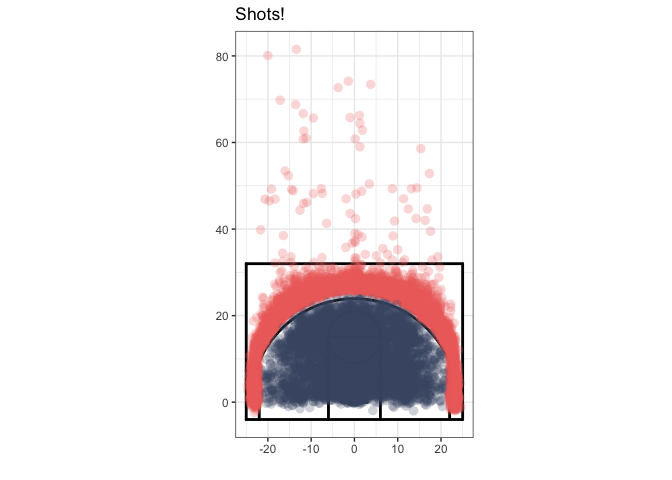
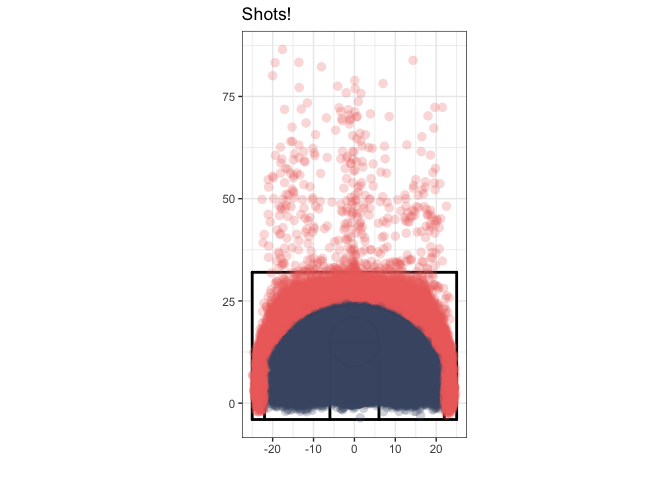
shot quality in R done

diff --git a/shot-quality/how_to_make_shot_quality_model.md b/shot-quality/how_to_make_shot_quality_model.md
@@ -22,8 +22,8 @@ and name ours **EMBIID**, or **E**xtremely **M**ediocre to **B**ad
 **I**ntroductory scor**I**ng mo**D**el.
 
 We’re going to be using exclusively shot data derived from play-by-play
-data - no tracking or demographic info here. The shots are 20,000 random
-fieldgoal attempts from the 2018 and 2019 regular seasons.
+data - no tracking or demographic info here. The shots are 100,000
+random fieldgoal attempts from the 2018 and 2019 regular seasons.
 
 ## Get the Data Set Up
 
@@ -39,7 +39,7 @@ library(tidyverse)
 
 ## Read in the data
 shots <- read_csv("data/shots.csv")
-set.seed(42)
+set.seed(111)
 
 ## Yep, looks like shot data
 print(head(shots))
@@ -48,12 +48,12 @@ print(head(shots))
     ## # A tibble: 6 x 18
     ##   event_team home_team away_team game_date           event_type quarter_time
     ##   <chr>      <chr>     <chr>     <dttm>              <chr>      <time>      
-    ## 1 Charlotte… Brooklyn… Charlott… 2019-11-21 00:30:00 twopointm… 08:10       
-    ## 2 Memphis G… Memphis … Denver N… 2020-01-29 01:00:00 twopointm… 04:23       
-    ## 3 Detroit P… Detroit … Milwauke… 2020-02-21 00:00:00 threepoin… 09:51       
-    ## 4 New Orlea… Golden S… New Orle… 2019-12-21 03:30:00 twopointm… 03:51       
-    ## 5 Boston Ce… Boston C… Orlando … 2019-04-07 23:30:00 twopointm… 02:41       
-    ## 6 Houston R… Houston … New Orle… 2019-01-30 01:00:00 threepoin… 10:05       
+    ## 1 Detroit P… Detroit … Charlott… 2018-11-11 20:30:00 twopointm… 10:04       
+    ## 2 Boston Ce… Boston C… Toronto … 2018-11-17 00:00:00 threepoin… 10:11       
+    ## 3 Denver Nu… Denver N… Minnesot… 2020-02-23 23:00:00 twopointm… 06:13       
+    ## 4 Phoenix S… Phoenix … Oklahoma… 2018-11-18 02:00:00 threepoin… 09:08       
+    ## 5 Los Angel… Clevelan… Los Ange… 2020-02-10 00:30:00 twopointm… 03:09       
+    ## 6 Boston Ce… New York… Boston C… 2019-02-02 00:30:00 threepoin… 06:18       
     ## # … with 12 more variables: quarter <dbl>, event_description <chr>,
     ## #   player_name <chr>, shot_style <chr>, shot_made <dbl>, points <dbl>,
     ## #   season <dbl>, seconds_elapsed <dbl>, shot_type <chr>, x <dbl>, y <dbl>,
@@ -85,14 +85,14 @@ ggplot() +
 Well, that certainly looks correct or close enough. However, there are
 quite a few heaves that we probably want to take out of the model since
 we probably(?) don’t care about those. Let’s limit it to shots 32 feet
-and closer (the top line of the little court). We only lose about 120
+and closer (the top line of the little court). We only lose about 600
 shots by doing this, so shouldn’t be an issue.
 
 ``` r
 print(nrow(shots))
 ```
 
-    ## [1] 20000
+    ## [1] 100000
 
 ``` r
 shots <- shots %>% 
@@ -101,7 +101,7 @@ shots <- shots %>%
 print(nrow(shots))
 ```
 
-    ## [1] 19881
+    ## [1] 99391
 
 ## Pre-Modeling Interlude
 
@@ -117,20 +117,20 @@ The good news about a PPS model is that there is an extremely obvious
 first pass model to either test or at least consider. Very slight math
 warning approaching.
 
-\[
-xPPS = {\beta_0} + {\beta_1}*FG2 + {\beta_2} * FG3   
-\] This is our starting point. This model takes binary flags for FG2 and
+![](how_to_make_shot_quality_model_files/eq1.gif)<!-- -->
+
+This is our starting point. This model takes binary flags for FG2 and
 FG3 and then returns an expected point per shot value (xPPS). Although,
 let’s consider if we actually need an intercept here - what would the
 xPPS be if FG2 = 0 and FG3 = 0? It would be zero, so we can actually get
-rid of the intercept entirely. EMBIID v1.0 is presented below.
+rid of the intercept entirely. You could over course also remove one of
+FG2 or FG3 as well and keep the intercept, but I like it this way for
+presentation purposes. EMBIID v1.0 is presented below.
 
-\[
-xPPS = {\beta_1}*FG2 + {\beta_2} * FG3   
-\]
+![](how_to_make_shot_quality_model_files/eq2.gif)<!-- -->
 
-Now, let’s use this model setup to train on 15,000 random shots and
-train on 5,000 random shots and see how we do. Fun fact, I learned about
+Now, let’s use this model setup to train on 75% of the data and test on
+25% of the data and see how we do. Fun fact, I learned about
 `tidymodels::initial_split()` while writing this\!
 
 ``` r
@@ -156,21 +156,21 @@ summary(model)
     ## 
     ## Residuals:
     ##     Min      1Q  Median      3Q     Max 
-    ## -1.1275 -1.1042 -1.1042  0.8958  1.8725 
+    ## -1.1012 -1.1012 -1.0839  0.8988  1.9161 
     ## 
     ## Coefficients:
     ##     Estimate Std. Error t value Pr(>|t|)    
-    ## fg2  1.10421    0.01235   89.41   <2e-16 ***
-    ## fg3  1.12746    0.01583   71.22   <2e-16 ***
+    ## fg2 1.101186   0.005510   199.9   <2e-16 ***
+    ## fg3 1.083863   0.007037   154.0   <2e-16 ***
     ## ---
     ## Signif. codes:  0 '***' 0.001 '**' 0.01 '*' 0.05 '.' 0.1 ' ' 1
     ## 
-    ## Residual standard error: 1.189 on 14909 degrees of freedom
-    ## Multiple R-squared:  0.4671, Adjusted R-squared:  0.467 
-    ## F-statistic:  6533 on 2 and 14909 DF,  p-value: < 2.2e-16
+    ## Residual standard error: 1.184 on 74542 degrees of freedom
+    ## Multiple R-squared:  0.4607, Adjusted R-squared:  0.4606 
+    ## F-statistic: 3.183e+04 on 2 and 74542 DF,  p-value: < 2.2e-16
 
-Good news - our model makes sense. In general, FG3 are slightly more
-efficient from a PPS standpoint than FG2. Now before you go ahead and
+Good news - our model makes sense. Our FG2 and FG3 coefficients are nice
+here because they’re just points per shot\! Now before you go ahead and
 start yelling about how the game has changed, keep in mind that there is
 **zero** contextualizing information here - just the most basic league
 wide efficiency model. Now let’s test.
@@ -206,7 +206,7 @@ ggplot(data = twos) +
   geom_violin(aes(x = pps_actual, y = pps_pred), fill = "darkgray") +
   geom_jitter(aes(x = pps_actual, y = pps_pred, color = resid_per_shot, size = number_of_shots), 
              shape = 16, alpha = 0.75, height = 0.1) +
-  scale_y_continuous(breaks = c(1.11)) +
+  scale_y_continuous(breaks = c(1.102)) +
   scale_color_gradient2(low = "blue",
                         mid = "white",
                         midpoint = 0,
@@ -221,7 +221,7 @@ ggplot(data = twos) +
   theme_bw(base_size = 16)
 ```
 
-![](how_to_make_shot_quality_model_files/figure-gfm/unnamed-chunk-4-1.png)<!-- -->
+![](how_to_make_shot_quality_model_files/figure-gfm/unnamed-chunk-6-1.png)<!-- -->
 
 ``` r
 two_error <- mltools::rmse(preds = twos$pps_pred, 
@@ -233,39 +233,38 @@ three_error <- mltools::rmse(preds = threes$pps_pred,
                            weights = threes$number_of_shots)
 ```
 
-Well our attempted weighted RMSE for twos is 0.42 and 0.67 for threes.
-Not particularly great\! But, that’s to be expected as we’re treating
-every single FG2 the same and every FG3 the same. Let’s add some spatial
-information in and see if we do better.
+Well our attempted weighted RMSE for twos is 0.223 and 0.363 for threes.
+Not particularly great, but RMSE might also not be the best way to
+evaluate this model (not going to be covered here, but this is something
+to consider)\! But, that’s to be expected as we’re treating every single
+FG2 the same and every FG3 the same. Let’s add some spatial information
+in and see if we do better.
 
 ``` r
-model <- lm(points ~  fg2 + fg3 + x + y + shot_distance + 0, data = train_shots)
+model <- lm(points ~ fg2 + fg3 + shot_distance + 0, data = train_shots)
 
 summary(model)
 ```
 
     ## 
     ## Call:
-    ## lm(formula = points ~ fg2 + fg3 + x + y + shot_distance + 0, 
-    ##     data = train_shots)
+    ## lm(formula = points ~ fg2 + fg3 + shot_distance + 0, data = train_shots)
     ## 
     ## Residuals:
     ##     Min      1Q  Median      3Q     Max 
-    ## -1.3729 -1.1145 -0.6275  0.8681  2.0815 
+    ## -1.3678 -1.0812 -0.6585  0.8476  2.1182 
     ## 
     ## Coefficients:
     ##                 Estimate Std. Error t value Pr(>|t|)    
-    ## fg2            1.3770080  0.0188056  73.223   <2e-16 ***
-    ## fg3            2.0542324  0.0520746  39.448   <2e-16 ***
-    ## x              0.0009403  0.0008723   1.078    0.281    
-    ## y             -0.0008848  0.0018670  -0.474    0.636    
-    ## shot_distance -0.0347949  0.0025482 -13.654   <2e-16 ***
+    ## fg2            1.3743111  0.0083377  164.83   <2e-16 ***
+    ## fg3            2.0057908  0.0224262   89.44   <2e-16 ***
+    ## shot_distance -0.0351676  0.0008133  -43.24   <2e-16 ***
     ## ---
     ## Signif. codes:  0 '***' 0.001 '**' 0.01 '*' 0.05 '.' 0.1 ' ' 1
     ## 
-    ## Residual standard error: 1.174 on 14906 degrees of freedom
-    ## Multiple R-squared:  0.4802, Adjusted R-squared:   0.48 
-    ## F-statistic:  2754 on 5 and 14906 DF,  p-value: < 2.2e-16
+    ## Residual standard error: 1.17 on 74541 degrees of freedom
+    ## Multiple R-squared:  0.4738, Adjusted R-squared:  0.4738 
+    ## F-statistic: 2.238e+04 on 3 and 74541 DF,  p-value: < 2.2e-16
 
 ``` r
 predictions <- predict(model, newdata = test_shots)
@@ -295,9 +294,134 @@ two_error <- mltools::rmse(preds = twos$pps_pred,
                            weights = twos$number_of_shots)
 
 three_error <- mltools::rmse(preds = threes$pps_pred, 
-                           actuals = threes$pps_actual, 
-                           weights = threes$number_of_shots)
+                             actuals = threes$pps_actual, 
+                             weights = threes$number_of_shots)
 ```
 
-This time our RMSE for twos is 0.4 and 0.67 for threes. Not particularly
-great, but better\!
+This time our RMSE for twos is a slightly smaller 0.203 and 0.364 for
+threes and a teeny tiny increase in R2. Better on twos now which makes
+sense given that a average rim look is far more likely to go in in than
+an average 19’ jumper, almost regardless of context.
+
+However, you might be thinking “Aren’t we modeling if a shot goes in or
+not, an inherently binary (yes/no) task? Can’t we use a classifier?”.
+Yes. Yes we can, and I actually prefer that methodology. Let’s build
+EMBIID 3.0 using a logistic classifier. Also, how about another two
+improvements with some crude feature crafting. We know that in terms of
+twos, rim FGA are the easiest shots and for threes, it’s corner threes
+(both by distance and that they tend to me assisted more often). So
+let’s make a rim FGA and corner three FGA flag and stick that in there
+as well. [Hit this link if you need a quick refresher on how to
+interpret the output (IDRE is
+awesome)](https://stats.idre.ucla.edu/r/dae/logit-regression/).
+
+``` r
+shot_split <- shots %>% 
+  mutate(fg2 = ifelse(shot_type == "2PT Field Goal", 1, 0)) %>% 
+  mutate(fg3 = ifelse(shot_type == "3PT Field Goal", 1, 0)) %>% 
+  mutate(rim_fg = ifelse(shot_distance <= 6, 1, 0)) %>% 
+  mutate(corner_three = ifelse(fg3 == 1 & y <= 5, 1, 0)) %>% 
+  initial_split(prop = 0.75) 
+
+train_shots <- training(shot_split)
+test_shots <- testing(shot_split)
+
+model <- glm(shot_made ~ fg2 + shot_distance + rim_fg + corner_three, 
+             data = train_shots, 
+             family = "binomial")
+summary(model)
+```
+
+    ## 
+    ## Call:
+    ## glm(formula = shot_made ~ fg2 + shot_distance + rim_fg + corner_three, 
+    ##     family = "binomial", data = train_shots)
+    ## 
+    ## Deviance Residuals: 
+    ##    Min      1Q  Median      3Q     Max  
+    ## -1.505  -1.001  -0.913   1.214   1.516  
+    ## 
+    ## Coefficients:
+    ##               Estimate Std. Error z value Pr(>|z|)    
+    ## (Intercept)    0.26276    0.07239   3.630 0.000284 ***
+    ## fg2           -0.14419    0.03975  -3.627 0.000286 ***
+    ## shot_distance -0.03222    0.00265 -12.156  < 2e-16 ***
+    ## rim_fg         0.63161    0.03494  18.078  < 2e-16 ***
+    ## corner_three   0.05645    0.03406   1.657 0.097497 .  
+    ## ---
+    ## Signif. codes:  0 '***' 0.001 '**' 0.01 '*' 0.05 '.' 0.1 ' ' 1
+    ## 
+    ## (Dispersion parameter for binomial family taken to be 1)
+    ## 
+    ##     Null deviance: 103211  on 74543  degrees of freedom
+    ## Residual deviance:  97756  on 74539  degrees of freedom
+    ## AIC: 97766
+    ## 
+    ## Number of Fisher Scoring iterations: 4
+
+Snazzy. Our two new variables appear to add value to the model (EMBIID
+3.0), so let’s take a look at some testing results.
+
+``` r
+library(knitr)
+
+## don't forget type = "response" if you want probabilities from this
+preds <- predict(model, newdata = test_shots, type = "response")
+
+test_shots <- test_shots %>% 
+  mutate(xFG = preds) %>% 
+  mutate(xPTS = ifelse(shot_type == "2PT Field Goal", 2 * xFG, 3 * xFG)) %>% 
+  ungroup()
+
+fg2 <- test_shots %>% 
+  group_by(player_name, shot_type) %>% 
+  summarise(PTS = sum(points),
+            xPTS = sum(xPTS),
+            number_of_shots = n(),
+            number_of_makes = sum(shot_made), 
+            `xFG%` = mean(xFG)) %>% 
+  ungroup() %>% 
+  mutate(mean_FG = number_of_makes/number_of_shots) %>% 
+  filter(shot_type == "2PT Field Goal") %>% 
+  top_n(10, wt = number_of_shots) %>% 
+  mutate(`FG%` = round(mean_FG, 3)) %>% 
+  mutate(`xFG%`= round(`xFG%`, 3)) %>% 
+  mutate(xPTS = round(xPTS, 1)) %>% 
+  select(Player = player_name,
+         FG2A = number_of_shots,
+         FG2M = number_of_makes,
+         `FG%`,
+         `xFG%`,
+         PTS,
+         xPTS) %>% 
+  mutate(`Shot Making` = round((PTS - xPTS)/FG2A, 2))
+         
+
+knitr::kable(fg2, align = "c", caption = "Shot Making for Top Ten by FG2A")
+```
+
+|        Player         | FG2A | FG2M |  FG%  | xFG%  | PTS | xPTS  | Shot Making |
+| :-------------------: | :--: | :--: | :---: | :---: | :-: | :---: | :---------: |
+|     Anthony Davis     | 115  |  59  | 0.513 | 0.532 | 118 | 122.3 |   \-0.04    |
+|     Bradley Beal      | 112  |  63  | 0.562 | 0.536 | 126 | 120.2 |    0.05     |
+|     DeMar DeRozan     | 140  |  74  | 0.529 | 0.489 | 148 | 136.9 |    0.08     |
+|   Donovan Mitchell    | 116  |  52  | 0.448 | 0.522 | 104 | 121.1 |   \-0.15    |
+| Giannis Antetokounmpo | 127  |  83  | 0.654 | 0.598 | 166 | 151.9 |    0.11     |
+|   LaMarcus Aldridge   | 136  |  81  | 0.596 | 0.502 | 162 | 136.5 |    0.19     |
+|     LeBron James      | 117  |  73  | 0.624 | 0.580 | 146 | 135.6 |    0.09     |
+|    Nikola Vucevic     | 136  |  79  | 0.581 | 0.520 | 158 | 141.6 |    0.12     |
+|   Russell Westbrook   | 130  |  71  | 0.546 | 0.552 | 142 | 143.4 |   \-0.01    |
+|      Zach LaVine      | 116  |  52  | 0.448 | 0.562 | 104 | 130.3 |   \-0.23    |
+
+Shot Making for Top Ten by FG2A
+
+So here we have a table that shows the players with the top ten most
+FG2A in our test set and their various actual and predicted FG% and
+points scored. The last column, ‘Shot Making’ shows on a per shot basis,
+the differential between that player taking the shot and more or less
+the league average. DDR is positive because he’s quite good at the
+midrange compared to the rest of the league, whereas someone like Zach
+LaVine is significantly negative on a per shot basis. Now you have been
+armed with the tools to explore your own quality models. Think about how
+to include player level information, matchups, lineups, etc. You can get
+as crazy as you want to with these.
